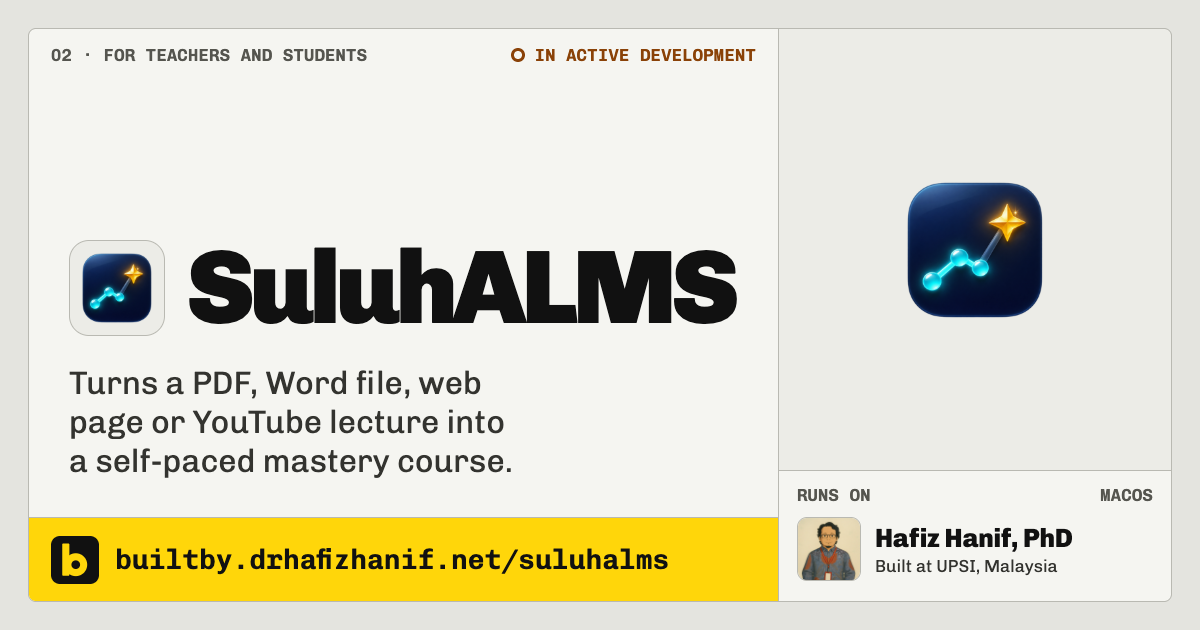
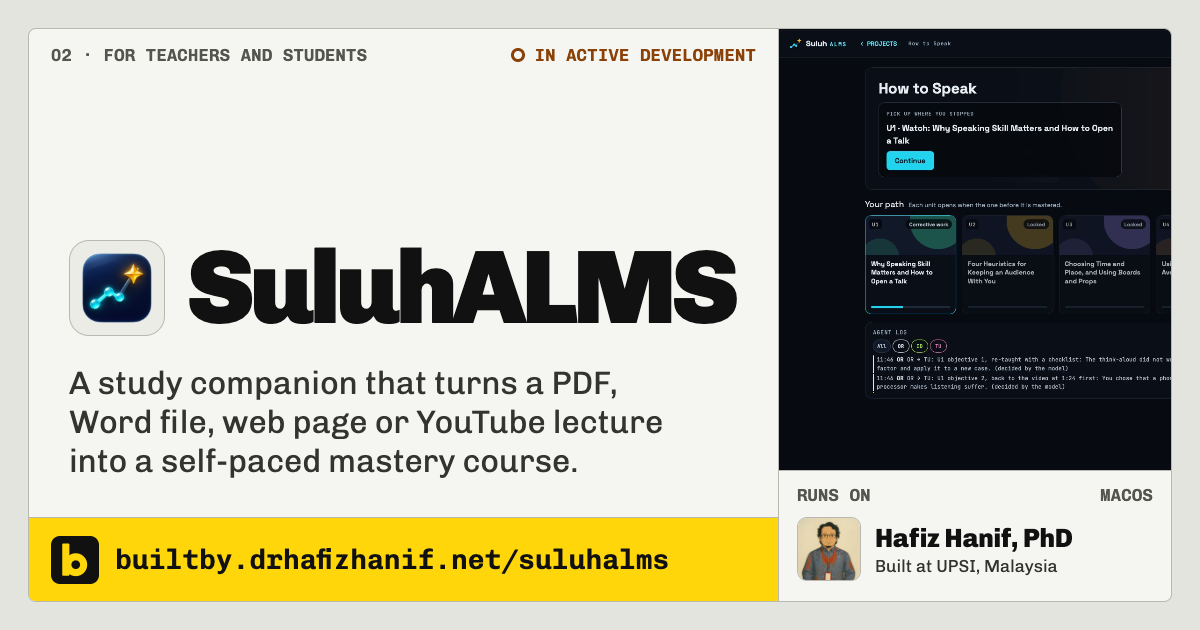
SuluhALMS: study companion and agents, with seven screenshots
The page now leads with SuluhALMS as a study companion and explains the
agent team: the Orchestrator, the specialists, the Quality Auditor, the
Learning Analyst and the Tutor, and where rules or the AI model decide.
Features cover the unit path, the Tutor, corrective plans, the checks,
the videos and the cost limit; details add narration. Seven screenshots
from 0.1.31 test courses (Kitaran Air and How to Speak, no third-party
images), and a redrawn link preview.

Claude-Session: https://claude.ai/code/session_011bckWHH5bDgvfmwo9HVPbJ

Changed region(s): [[0.6475, 0.0302, 0.9867, 0.754], [0.0617, 0.573, 0.555, 0.754]]

diff --git a/src/data/projects.ts b/src/data/projects.ts
@@ -680,12 +680,13 @@ export const projects: Project[] = [
     status: 'in-development',
     icon: { src: '/icons/suluhalms.png' },
     platforms: ['macOS'],
-    tagline: 'Turns a PDF, Word file, web page or YouTube lecture into a self-paced mastery course.',
+    tagline: 'A study companion that turns a PDF, Word file, web page or YouTube lecture into a self-paced mastery course.',
     notice: 'SuluhALMS is in a pilot at UPSI and still in active development. Builds for Apple silicon Macs are public.',
     about: [
-      'SuluhALMS turns your teaching material into a self-paced course: objectives, units, unit videos, questions and spaced review.',
-      'Learners move unit by unit. A unit opens once the one before is mastered at 80 percent, and anyone who falls short gets corrective lessons and a fresh retest. Every explanation and question cites the page or section it came from.',
-      'Answers and progress stay on the Mac, and there is no account. Only the course text goes to the AI provider you choose, and with Ollama nothing leaves the Mac at all.',
+      'SuluhALMS is a study companion for anyone learning something in a structured way: a student working through a textbook, a teacher taking on a new topic, or anyone who wants to really understand a long lecture. Give it your material and it builds a self-paced course with objectives, units, narrated unit videos, questions and spaced review, then takes you through it one step at a time.',
+      'Behind it is a team of AI agents led by an Orchestrator. A Source Analyst reads your material, a Curriculum Architect plans the units, an Instructional Designer writes the lessons, an Assessment Designer writes the questions and a Media Producer makes the videos. A Quality Auditor checks their work against the source before you see it. While you learn, a Learning Analyst reads your wrong answers and a Tutor answers your questions. The agent log shows which agent did what, and whether a rule or the AI model made each decision.',
+      'A unit opens once the one before is mastered at 80 percent, and every explanation and question cites the page or section it came from.',
+      'Answers and progress stay on the Mac, and there is no account. Only the course text goes to the AI provider you choose (and the narration to HeyGen, if you add a HeyGen key). With Ollama, nothing leaves the Mac at all.',
     ],
     features: [
       {
@@ -693,38 +694,60 @@ export const projects: Project[] = [
         detail: 'Start from a PDF, including scanned pages, a Word file, a web page or a YouTube lecture. Long books are split into chapters so you choose what to cover.',
       },
       {
-        title: 'Mastery path',
-        detail: 'Every learner starts at the first unit. The level you pick sets the depth, from plain language for beginners to critique and transfer for experts.',
+        title: 'One step at a time',
+        detail: 'Each unit is a short path: your task, watch, read, practise, unit test. A quick check closes each section, and a daily goal and streak keep you going. The level you pick sets the depth, from plain language to critique and transfer.',
+      },
+      {
+        title: 'A Tutor beside every unit',
+        detail: 'Ask about a section, a passage you select or a moment in the video. The Tutor answers from the unit’s own pages, names them, says when it goes beyond the course, and gives hints before answers.',
+      },
+      {
+        title: 'Help when you are stuck',
+        detail: 'Fall short of 80 percent and each missed objective is taught a different way, followed by a retest with new questions. Miss it again and the Orchestrator picks the next step, such as smaller steps, a recap of an earlier unit or a moment in the video, and tells you why.',
+      },
+      {
+        title: 'Nine agents, one Orchestrator',
+        detail: 'Rules handle scheduling, retries and the spending limit. The AI model is asked only where judgement helps: spotting a misconception in your wrong answers, re-planning for a stuck learner, or deciding what to do with work the Quality Auditor keeps rejecting.',
+      },
+      {
+        title: 'Checked before you see it',
+        detail: 'Every lesson, question and video script is checked against the source. A wrong answer key goes back to the agent that wrote it, and a question still wrong after two rewrites is left out. You can still report a question; it stops counting and a replacement is written.',
       },
       {
         title: 'Unit videos',
-        detail: 'Each unit gets a narrated video with drawn diagrams. Questions pause the video, and a wrong answer offers to rewind to the part that explains it.',
+        detail: 'Each unit gets a narrated video with designed scenes such as timelines, cycles, comparisons and charts, drawn only from numbers in your source. Questions pause the video, and a wrong answer offers to rewind to the part that explains it.',
       },
       {
         title: 'Spaced review',
-        detail: 'Questions come back on a schedule, so learners revisit what they are about to forget.',
-      },
-      {
-        title: 'Report a problem',
-        detail: 'A learner can flag a question that seems wrong. It stops counting toward the score and a replacement is written.',
+        detail: 'Questions come back on a schedule, so you revisit what you are about to forget.',
       },
       {
         title: 'Share a course',
         detail: 'Build a course once and export it as one file. It opens on another Mac with its videos ready, with nothing rebuilt or paid for again.',
       },
       {
-        title: 'Analytics',
-        detail: 'See mastery per objective, time on task, video engagement and common misconceptions, and export a PDF report in English or Bahasa Malaysia.',
+        title: 'Analytics and cost',
+        detail: 'See mastery per objective, time on task, video engagement and misconceptions, and export a PDF report in English or Bahasa Malaysia. Each course shows what its AI has cost so far, and you can set a limit.',
       },
     ],
     facts: [
       { label: 'Runs on', value: 'macOS 14 or later, Apple silicon' },
-      { label: 'AI provider', value: 'Your own Claude or OpenAI key, or Ollama running on the Mac' },
+      { label: 'AI provider', value: 'Your own Claude or OpenAI key, or Ollama running on the Mac. With Claude, the agents choose Sonnet or Haiku for each job.' },
+      { label: 'Narration', value: 'With a HeyGen key, Bahasa Malaysia in the voice cloned on your HeyGen account and English in a native English voice; otherwise a macOS voice' },
       { label: 'Languages', value: 'English and Bahasa Malaysia' },
       { label: 'Stage', value: 'Pilot at UPSI' },
     ],
     actions: [{ label: 'All releases', href: 'https://github.com/apitlekays/alms-releases/releases' }],
     download: { owner: 'apitlekays', repo: 'alms-releases' },
+    screens: [
+      { src: '/screens/suluhalms-1-home.jpg', caption: 'A course home: your path, today’s streak and the agent log, where the Orchestrator re-plans for two missed objectives.' },
+      { src: '/screens/suluhalms-2-tutor.jpg', caption: 'Reading with the Tutor beside you. The section was rewritten for this learner, and the Tutor cites the source and says when it goes beyond it.' },
+      { src: '/screens/suluhalms-3-corrective.jpg', caption: 'A corrective plan: each missed objective taught a different way before a retest.' },
+      { src: '/screens/suluhalms-4-why.jpg', caption: 'Why this plan: the reason for each choice, with a next step you can take.' },
+      { src: '/screens/suluhalms-5-video.jpg', caption: 'A scene from a unit video: a process, then a worked case, each step appearing as it is spoken. Bahasa Malaysia course.' },
+      { src: '/screens/suluhalms-6-analytics.jpg', caption: 'Analytics: mastery for every objective against the 80 percent line.' },
+      { src: '/screens/suluhalms-7-task-ms.jpg', caption: 'A Bahasa Malaysia course in the English interface: the unit’s task comes first.' },
+    ],
   },
   {
     slug: 'spectre-ui',
